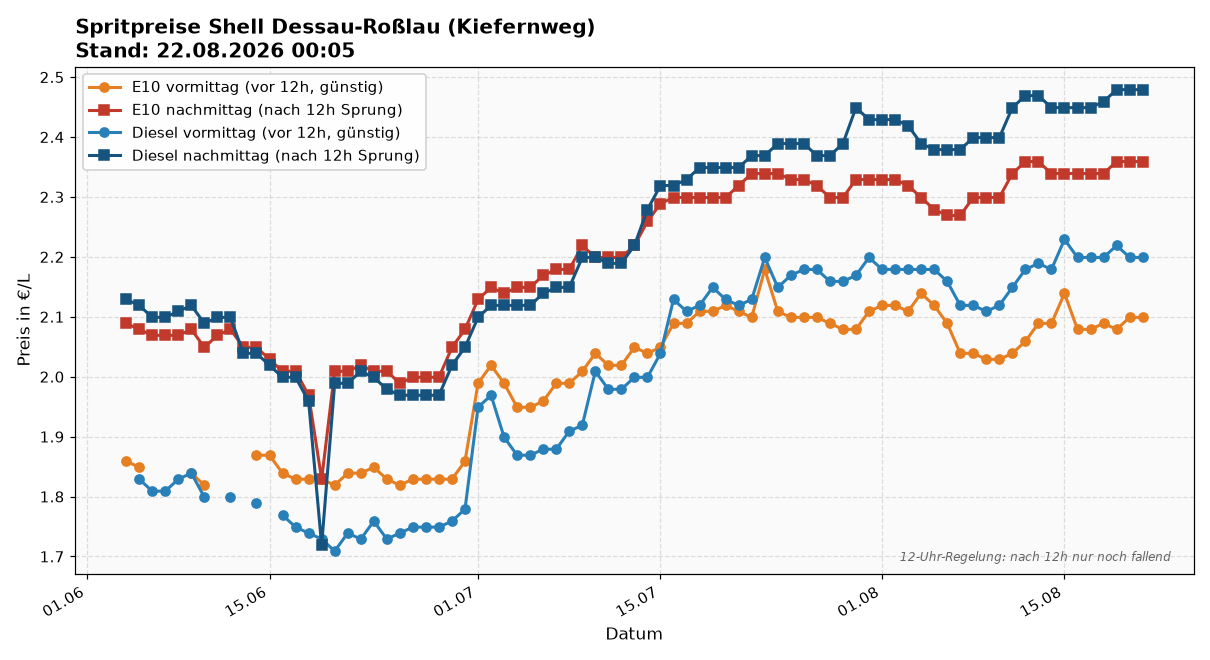
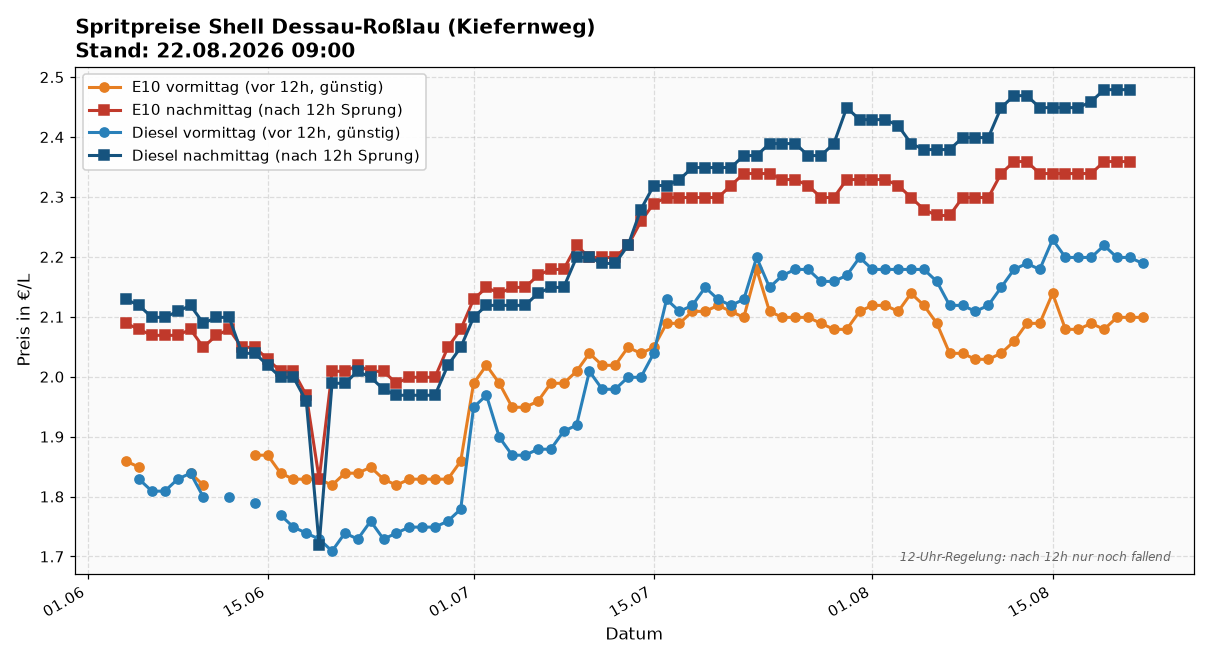
update: spritpreise 2026-08-22 09:00

diff --git a/index.html b/index.html
@@ -19,17 +19,17 @@
 </head>
 <body>
 <h1>🛢 Spritpreise Shell Dessau-Roßlau (Kiefernweg)</h1>
-<div class="sub">Source: Tankerkönig · Stand: 22.08.2026 00:05</div>
+<div class="sub">Source: Tankerkönig · Stand: 22.08.2026 09:00</div>
 
 <img src="latest.png" alt="Preisverlauf">
 
 <div class="latest">
   <strong>Heute (2026-08-22)</strong>
-  <div style="color:#888;font-style:italic;margin-bottom:0.5em;">Noch keine Messung heute — cron läuft 09:00 + 12:10.</div>
+  
   <table>
-    <tr><td>E10 vormittag</td><td class="price">— €</td></tr>
+    <tr><td>E10 vormittag</td><td class="price">2.099 €</td></tr>
     <tr><td>E10 nachmittag</td><td class="price">— €</td></tr>
-    <tr><td>Diesel vormittag</td><td class="price">— €</td></tr>
+    <tr><td>Diesel vormittag</td><td class="price">2.189 €</td></tr>
     <tr><td>Diesel nachmittag</td><td class="price">— €</td></tr>
   </table>
 </div>
